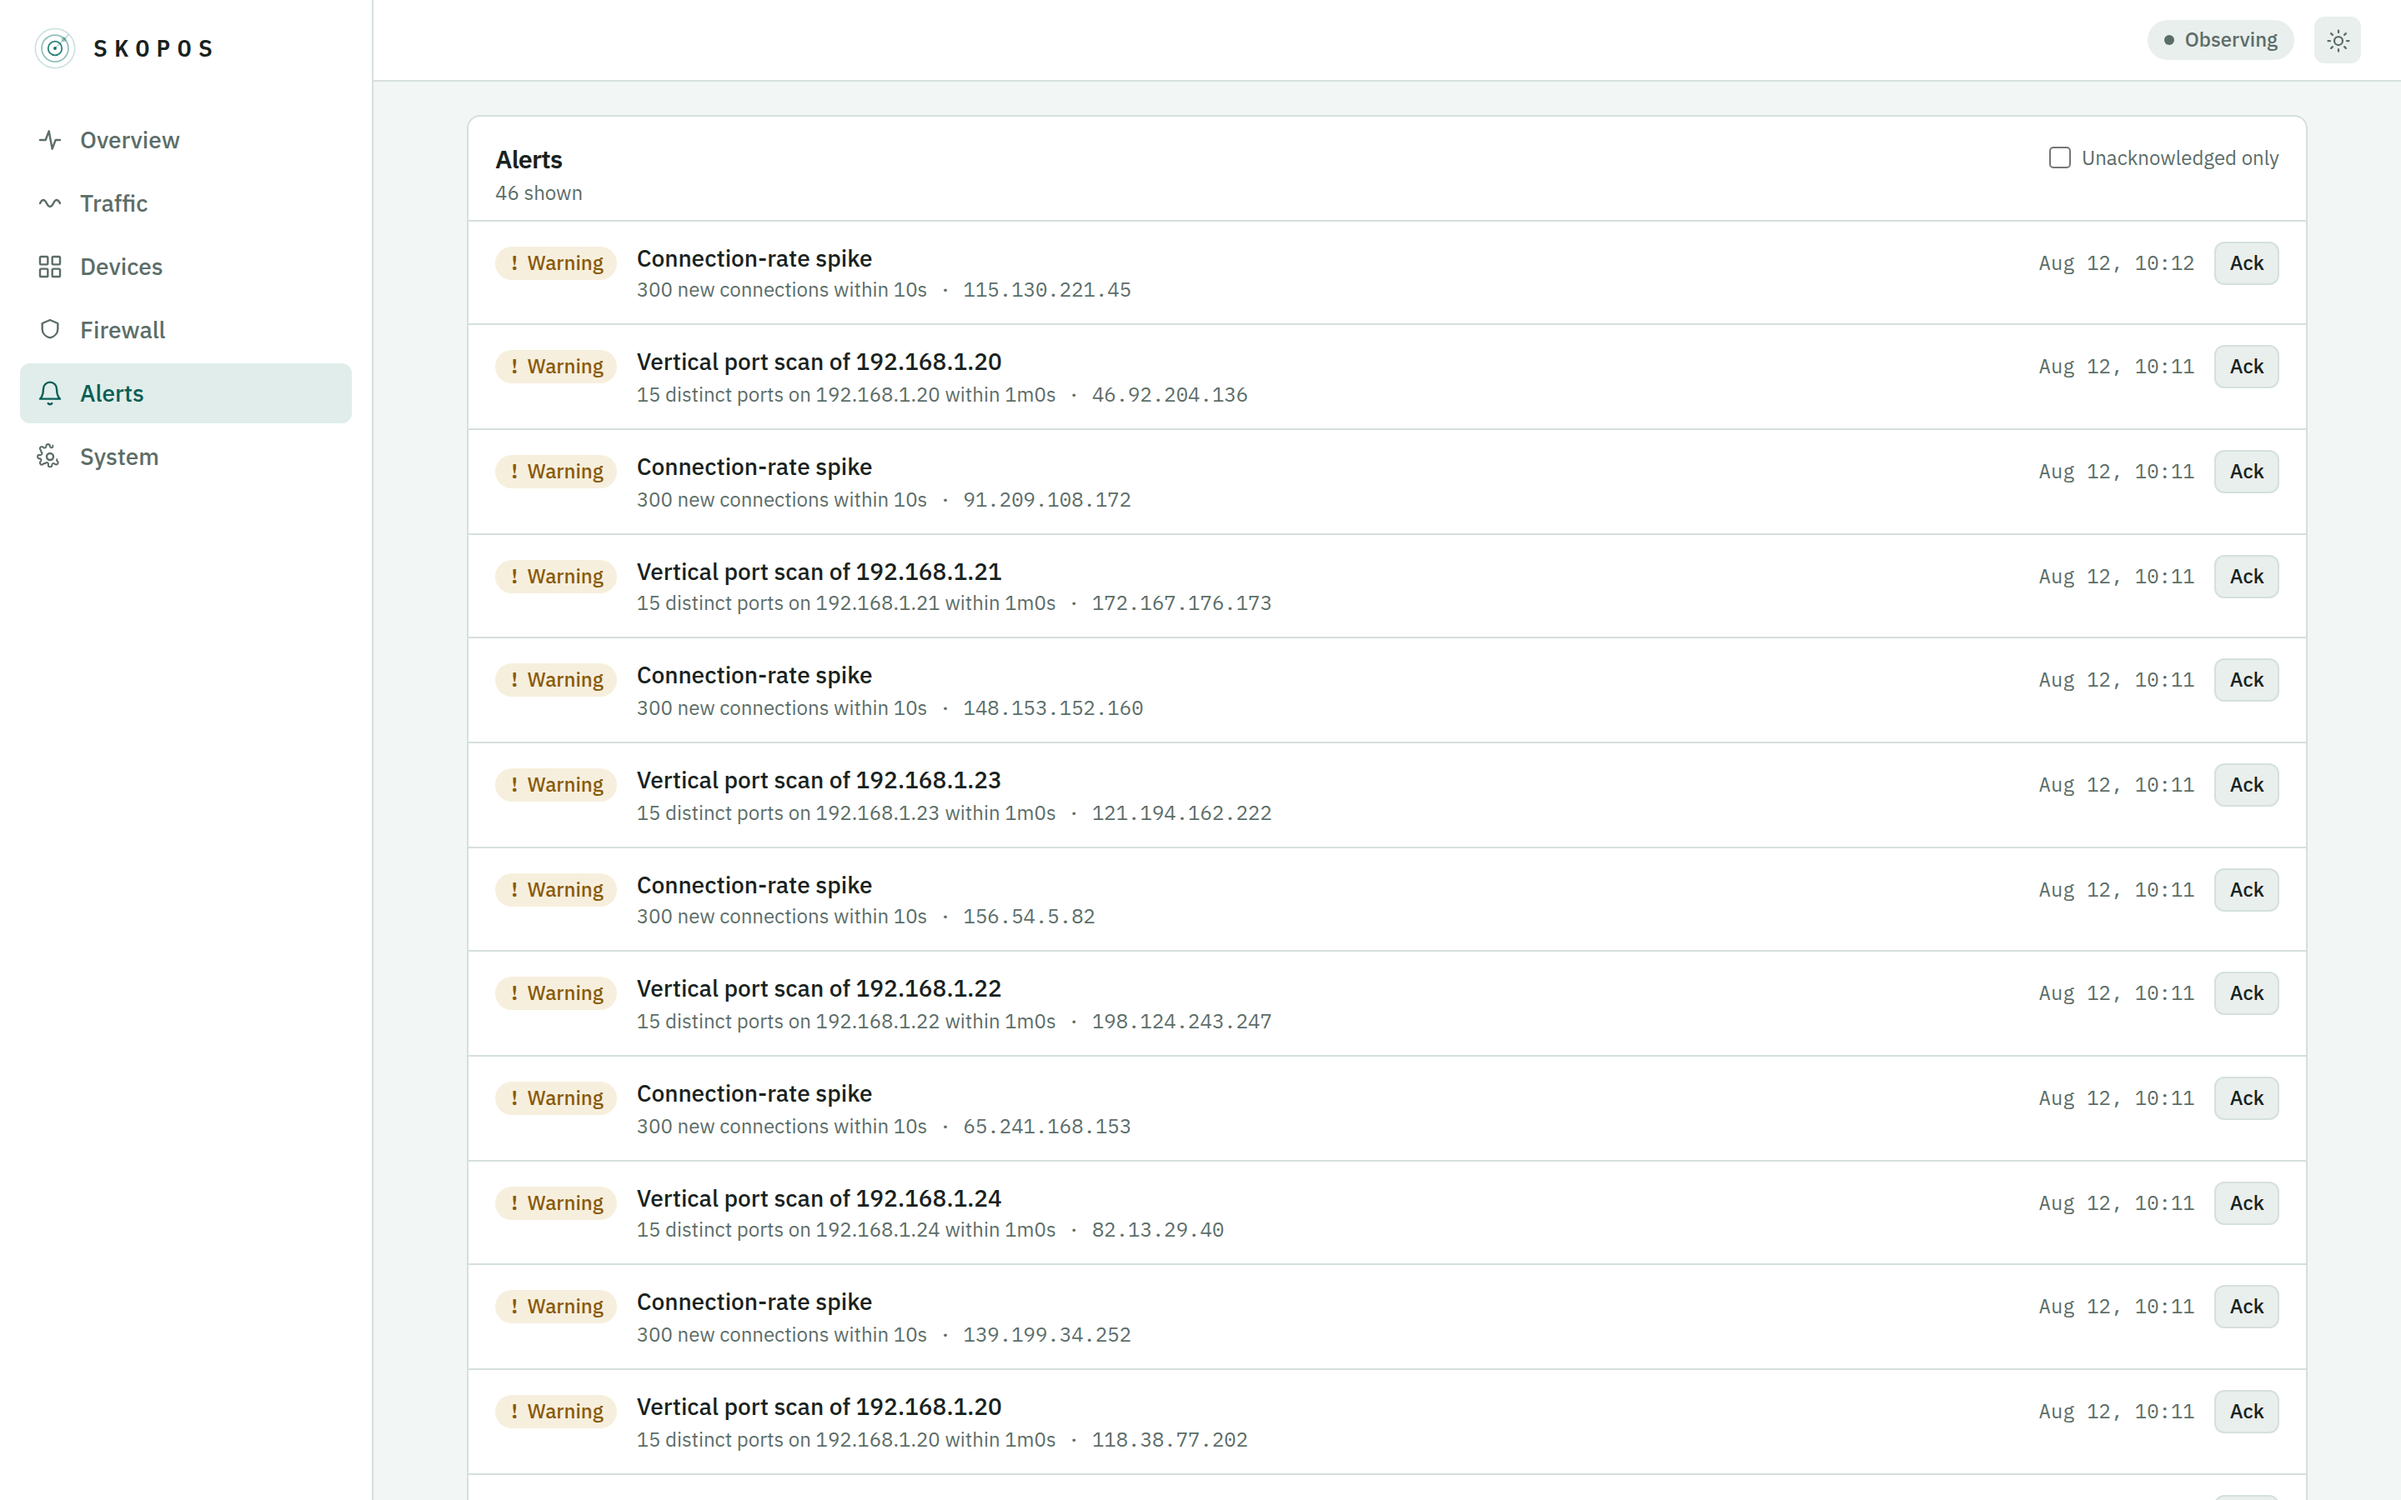
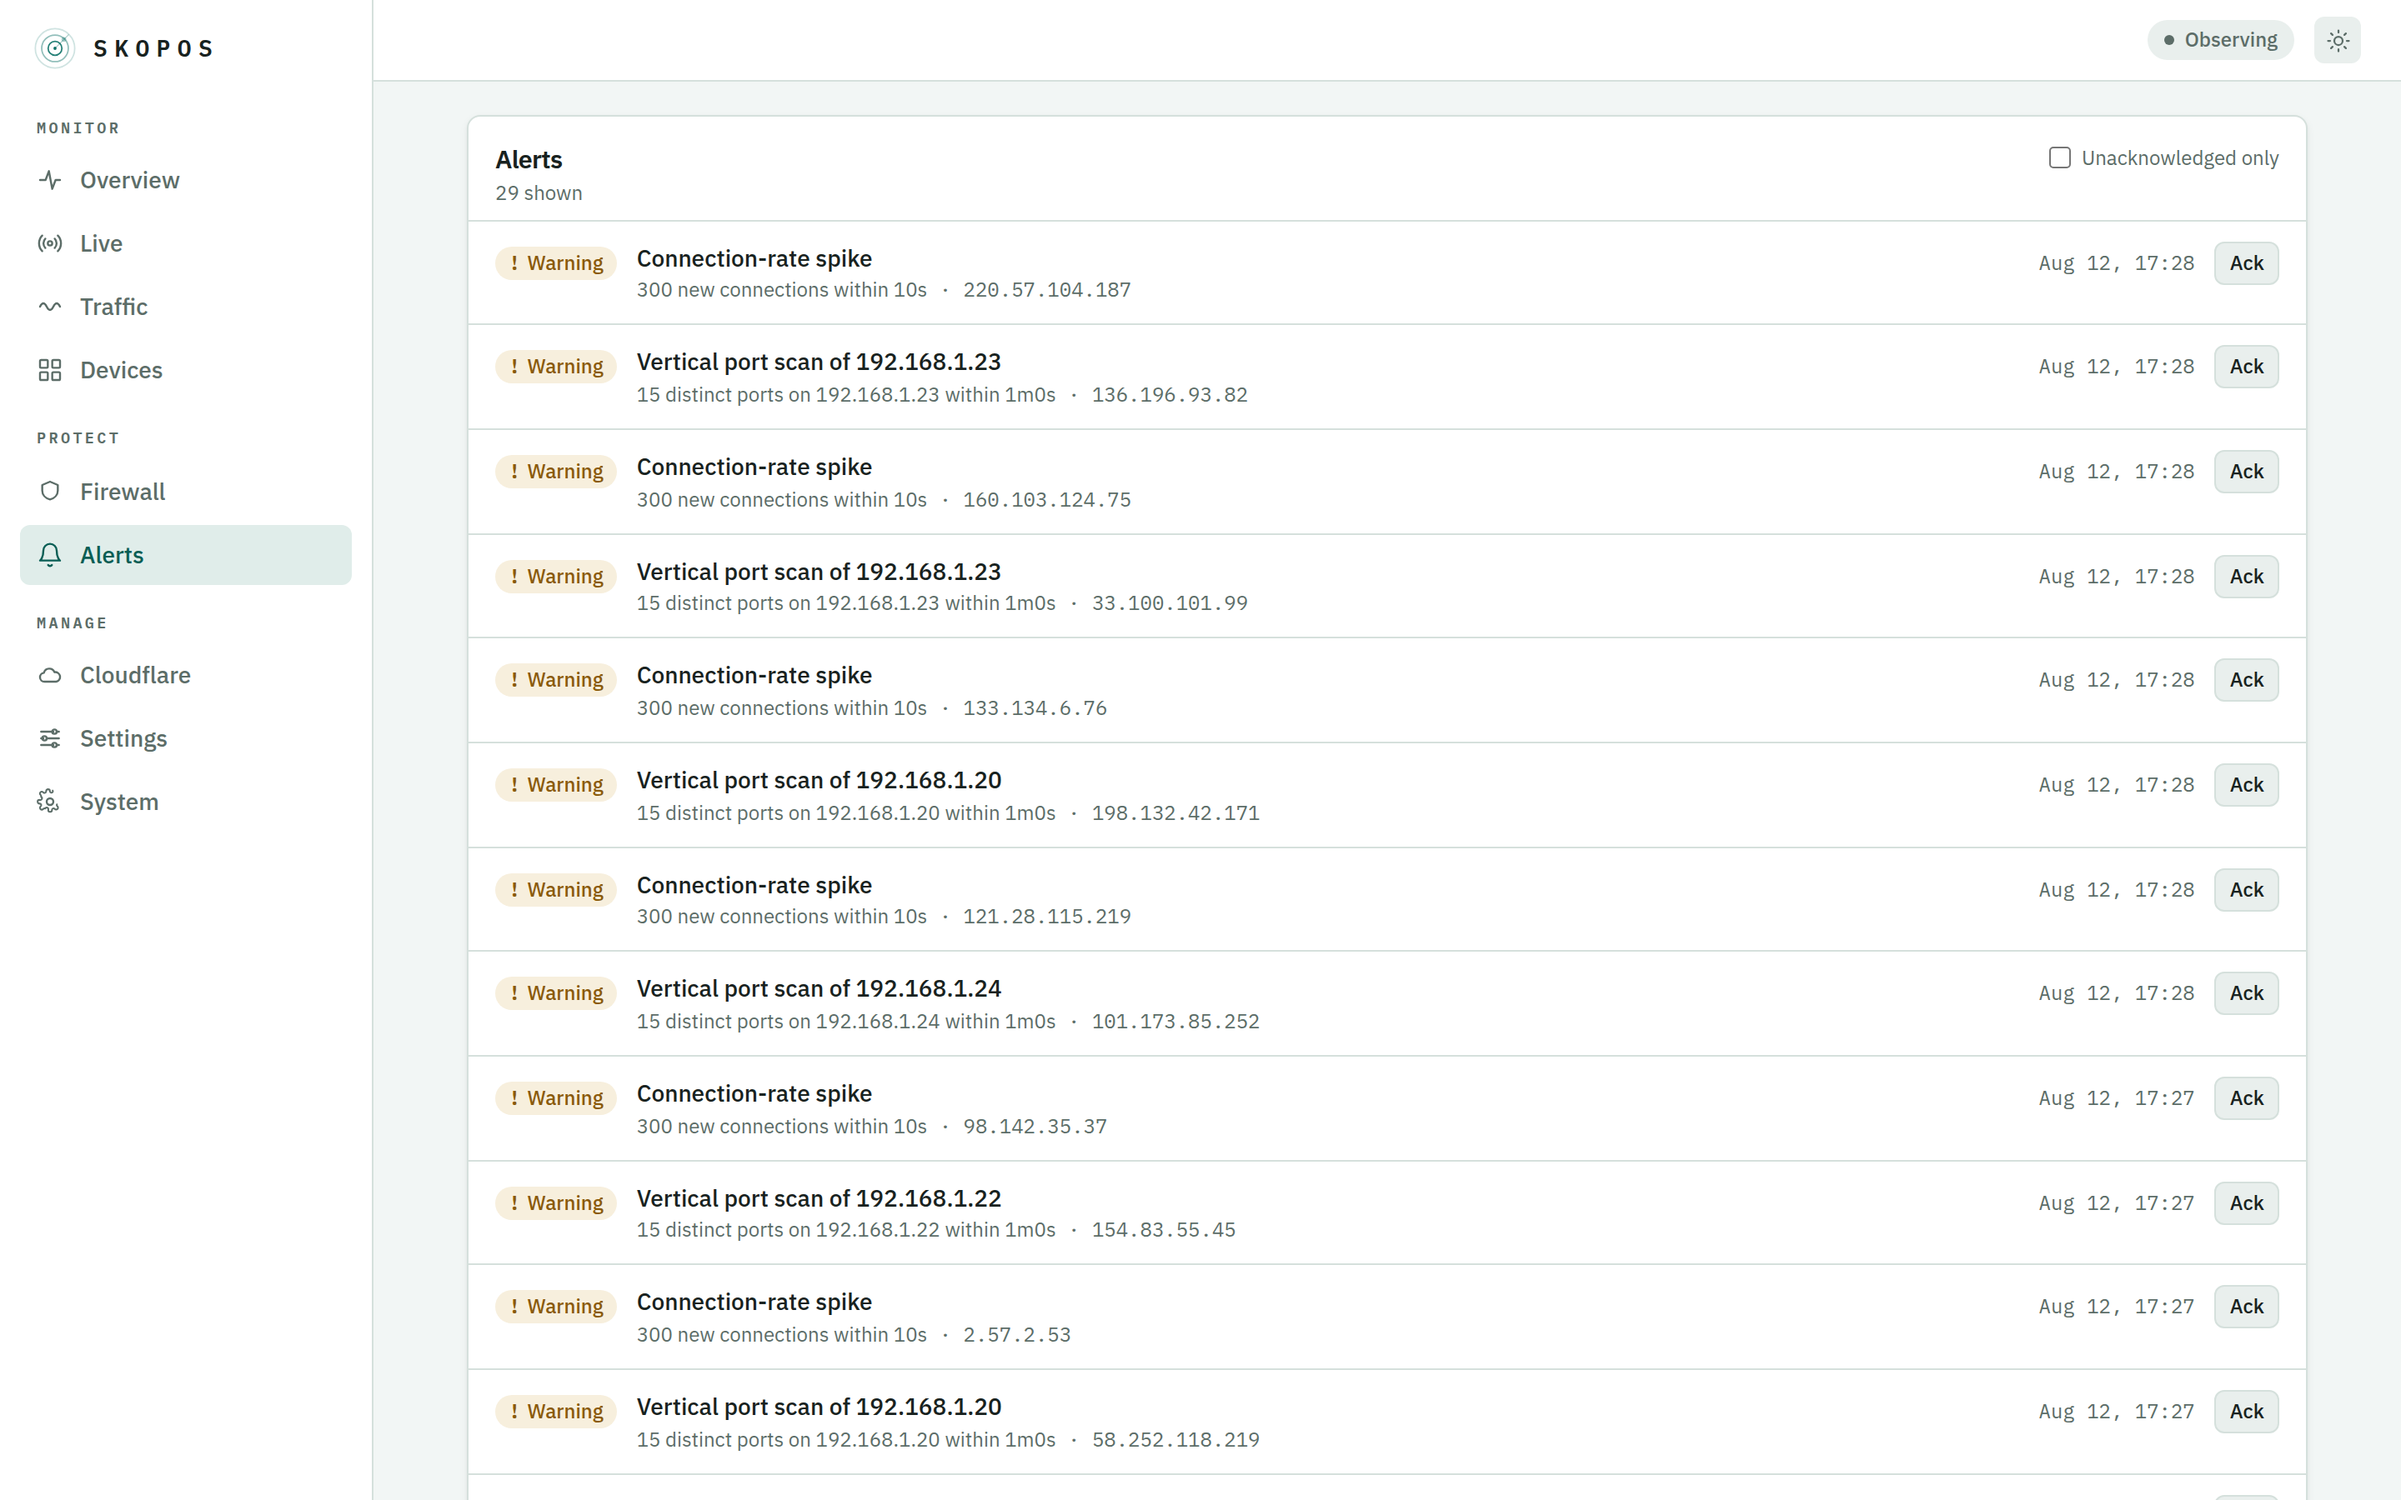
docs: document live view, device naming and Cloudflare; refresh screenshots
- README: new feature bullets (Live view, device naming, Cloudflare), a
  "Connect Cloudflare" section, and the updated data-flow diagram showing the
  live stream tee and the sealed Cloudflare token
- regenerate every screenshot for the design refresh and add the three new
  views (live, cloudflare, settings) in both themes

Claude-Session: https://claude.ai/code/session_01TQ14Bdti9aWwn1QX58hAVg

diff --git a/README.md b/README.md
@@ -23,6 +23,16 @@ in a single container configured by a single YAML file.
   (AF_PACKET), aggregated into flows, with a LAN device inventory and readable
   names from DNS/SNI. Time-series that stay fast for months via rolled-up
   aggregates.
+- **Live view** — every conversation as it completes, with throughput updating
+  once a second over a push stream (no busy-polling), device names resolved
+  inline. Watch your whole network in real time.
+- **Name your devices** — give any host on the network a friendly name straight
+  from the dashboard; it sticks across sightings and takes precedence over the
+  discovered hostname everywhere.
+- **Cloudflare** — connect a read-only API token in the UI (not the YAML) and
+  monitor request traffic, cache hit rate and edge-blocked threats for your own
+  domains, next to your LAN. The token is sealed with AES-GCM and never leaves
+  the NAS.
 - **Firewall management** — block and unblock IPs and CIDRs through a dedicated
   nftables table with in-kernel TTL expiry. State is declarative and restored on
   every start, so reboots and updates never drop your protection. Ships in
@@ -33,10 +43,13 @@ in a single container configured by a single YAML file.
   one notification, not five hundred.
 - **ntfy alerts** — push to your self-hosted ntfy or ntfy.sh, with severity
   mapped to priority, tap-through to the alert, and a generic webhook too.
-- **Web dashboard** — live throughput, traffic explorer, devices, firewall,
-  alert history and system health. Light and dark, English UI.
+- **Web dashboard** — overview, a real-time Live view, traffic explorer,
+  devices, firewall, alert history, Cloudflare, settings and system health.
+  Light and dark, English UI.
 - **One YAML file** — every path, interface, threshold, topic and credential
-  comes from `config.yaml`. Nothing about your environment is hardcoded.
+  comes from `config.yaml`. Nothing about your environment is hardcoded. The one
+  deliberate exception is the Cloudflare token, which you connect in the UI and
+  Skopos stores encrypted — secrets like that never belong in a config file.
 
 <div align="center">
 <img src="docs/screenshots/alerts.png" alt="Alerts" width="49%">
@@ -135,19 +148,35 @@ option, its type and its default — generated from the source, so it never
 drifts. A fully-commented example lives in
 [`deploy/config.example.yaml`](deploy/config.example.yaml).
 
+### Connect Cloudflare (in the UI, not the YAML)
+
+To watch traffic for your own domains, open **Cloudflare** in the dashboard and
+paste a scoped API token — there is nothing to add to `config.yaml`. Create the
+token from your [Cloudflare API tokens](https://dash.cloudflare.com/profile/api-tokens)
+page as a **Custom token** with two read-only permissions, **Zone · Analytics ·
+Read** and **Zone · Zone · Read**. Skopos verifies it, seals it with AES-GCM
+(the key lives in the database's `meta` table, like the session key), and never
+returns it or writes it to disk in the clear. Toggle which zones to monitor, and
+revoke the token from Cloudflare at any time.
+
 ## How it works
 
 ```
-interfaces → capture (AF_PACKET) → flow aggregator → detectors → policy ┬→ ntfy / webhook
-                                          │                              └→ nftables (inet skopos)
+interfaces → capture (AF_PACKET) → flow aggregator ┬→ detectors → policy ┬→ ntfy / webhook
+                                          │         │                     └→ nftables (inet skopos)
+                                          │         └→ live stream ────────→ SSE → Live view
                                           └→ SQLite (hot) → Parquet archive (cold)
                                                      ↑
                                             REST + SSE API → React dashboard (embedded)
+                                                     ↑
+                    Cloudflare GraphQL analytics (token sealed at rest) ────┘
 ```
 
 A single Go binary runs the whole pipeline; the React dashboard is embedded
 into it, so the image is one self-contained file. Packet **headers** and
-DNS/SNI **names** are processed — raw packets are never written to disk.
+DNS/SNI **names** are processed — raw packets are never written to disk. The
+flow sink is teed so every completed flow both persists and streams to the Live
+view; throughput is pushed once a second so open dashboards never busy-poll.
 
 - **Backend:** Go (native AF_PACKET capture and nftables via netlink; a small,
   static, multi-arch image).
